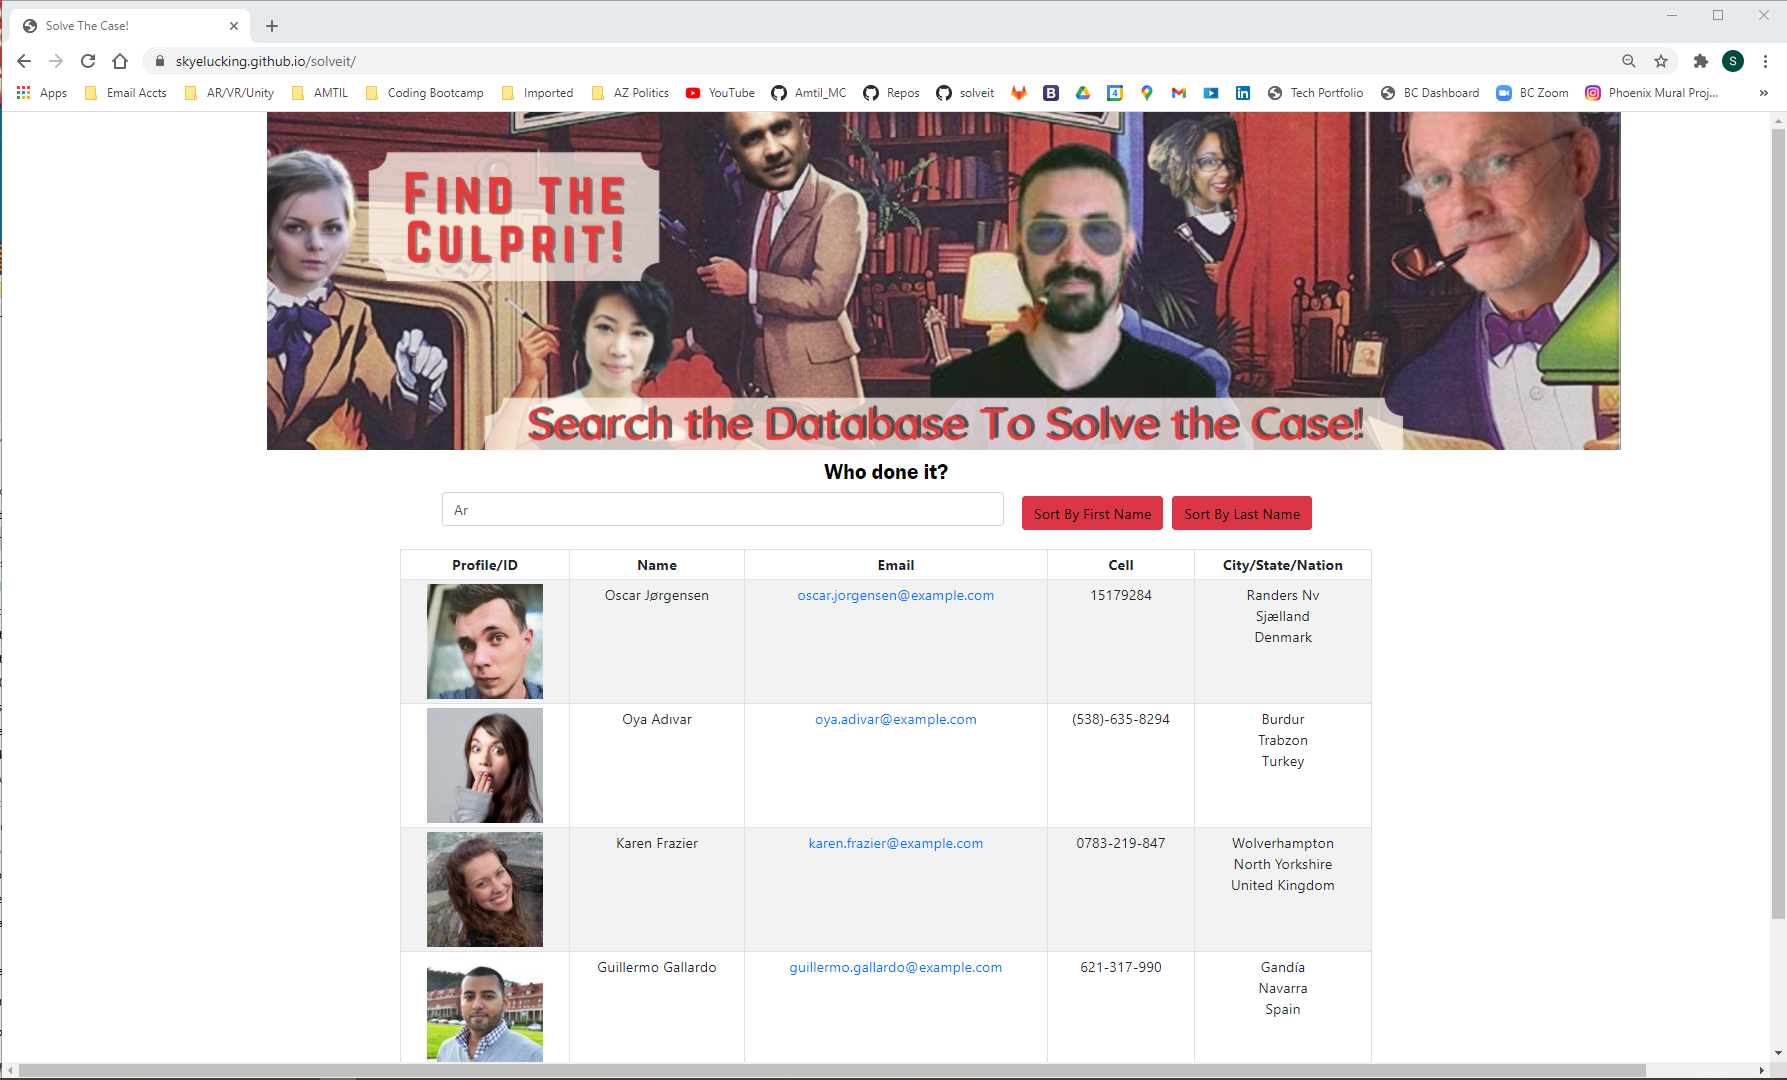
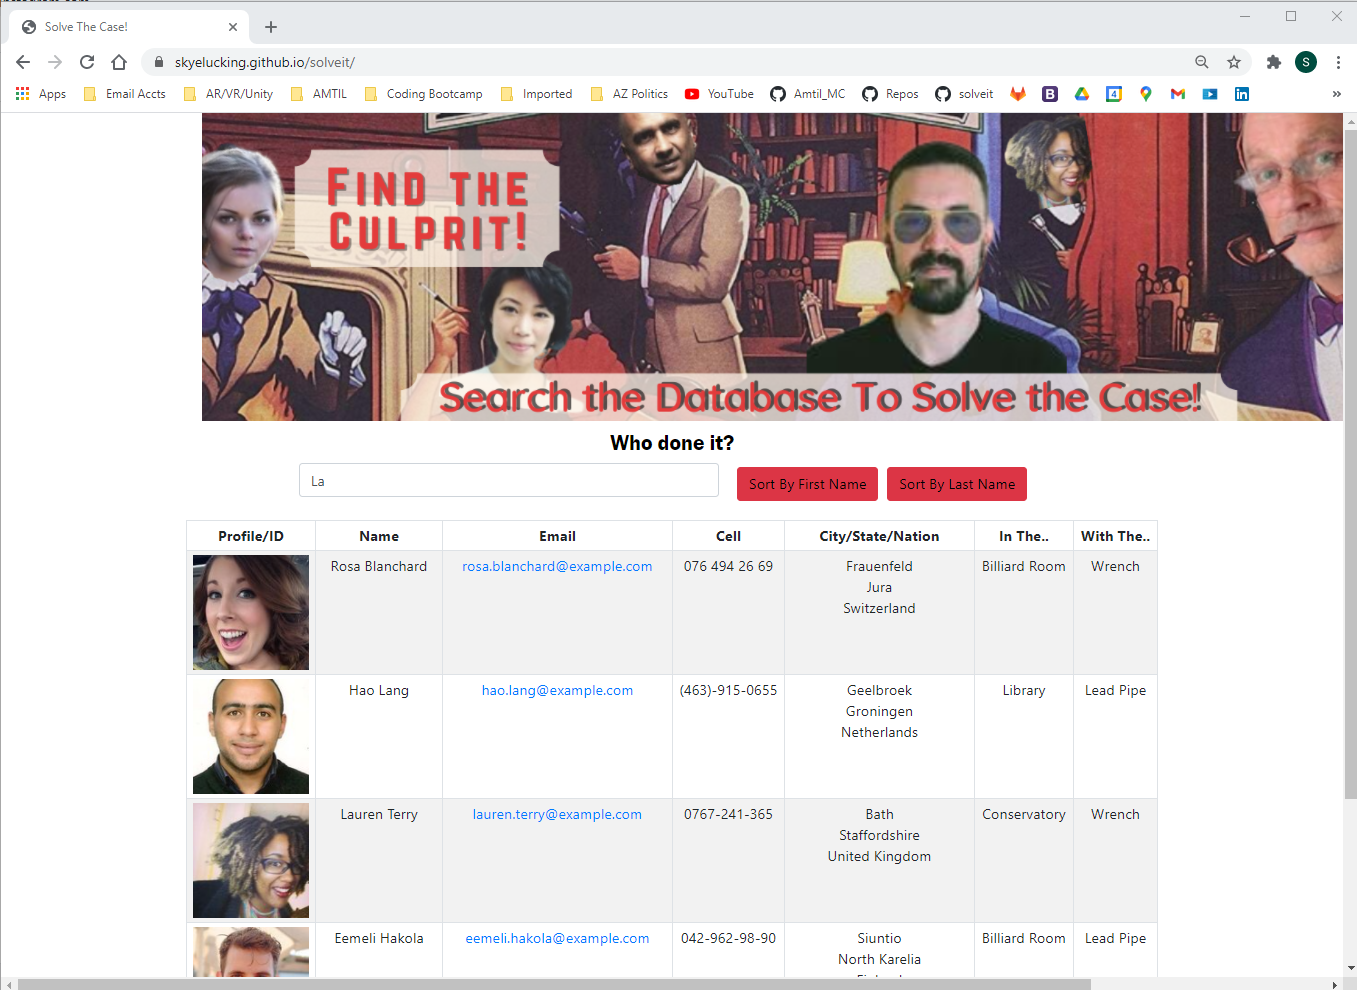
updated Readme

diff --git a/README.md b/README.md
@@ -11,12 +11,12 @@
 As a detective I want to be able to view my entire suspects list so I have quick access to their information. I want to be able to sort by first and last name as well as filter by letters in the first or last name. Was it the random person in the random room with the random weapon? Yes, probably!
 
 ## Screen Shots
-Detective is presented with a list of 25 suspects. Who done it?! 
-<img src="https://skyelucking.github.io/solveit/assets/SS1.png">
+Detective is presented with a list of 25 suspects, where they were and with what weapon they could have used.... Who done it?! 
+<img src="/solveit/assets/SS1.png">
 To help with their investigation, they may filter by letters in a name.
-<img src="https://skyelucking.github.io/solveit/assets/SS2.png">
+<img src="/solveit/assets/SS2.png">
 They may also sort suspects by first or last name.
-<img src="https://skyelucking.github.io/solveit/assets/SS3.png">
+<img src="/solveit/assets/SS3.png">
 
 ## Github Pages Link to Deployed App
 <a href="https://skyelucking.github.io/solveit/">https://skyelucking.github.io/solveit/</a>
